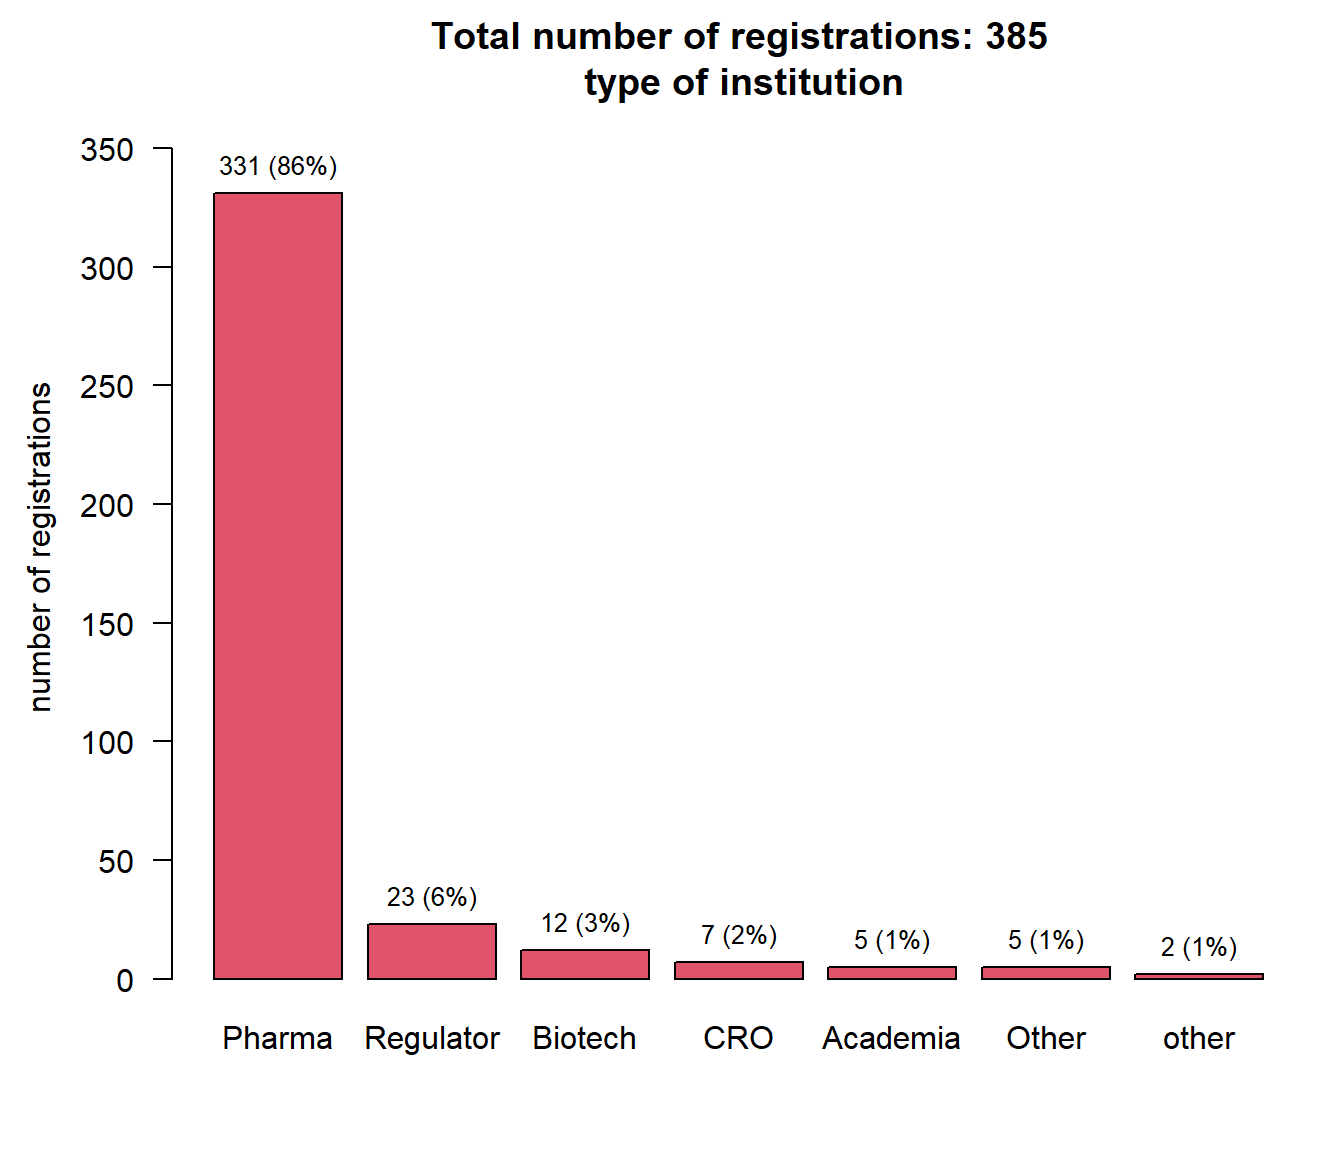
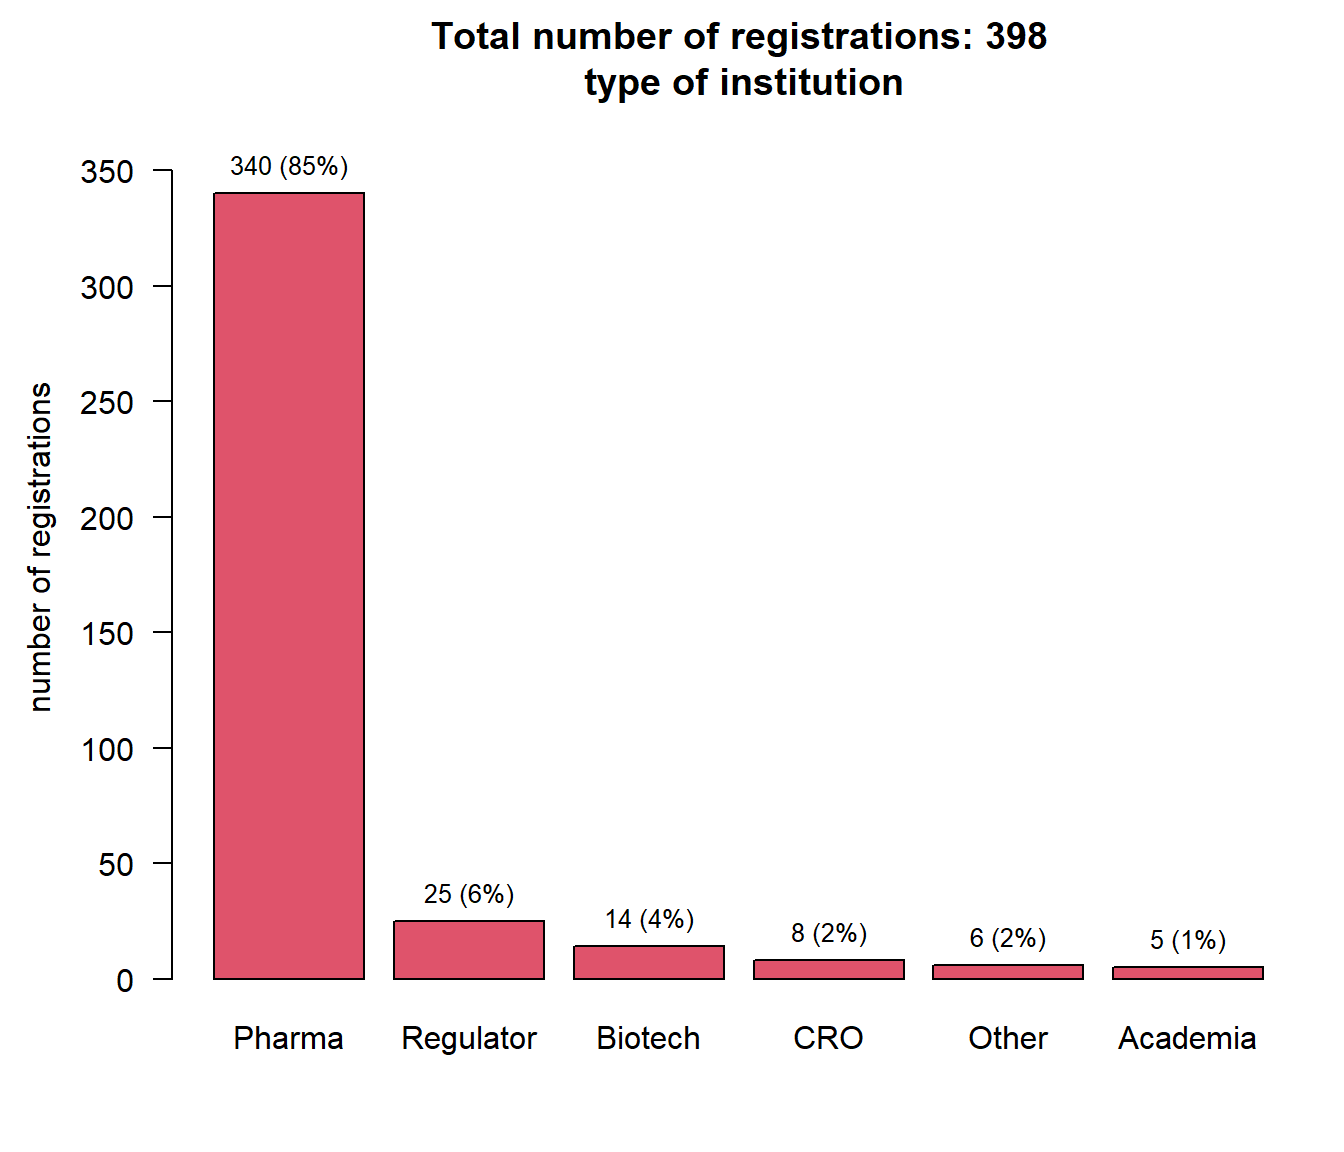
update

diff --git a/docs/data/2024/analysis2024.html b/docs/data/2024/analysis2024.html
@@ -7,7 +7,7 @@
 <meta name="viewport" content="width=device-width, initial-scale=1.0, user-scalable=yes">
 
 <meta name="author" content="Kaspar Rufibach">
-<meta name="dcterms.date" content="2024-07-26">
+<meta name="dcterms.date" content="2024-07-30">
 
 <title>EFSPI regulatory statistics workshop - EFSPI regulatory statistics workshop 2024: analysis of registrations</title>
 <style>
@@ -204,7 +204,7 @@ ul.task-list li input[type="checkbox"] {
     <div>
     <div class="quarto-title-meta-heading">Published</div>
     <div class="quarto-title-meta-contents">
-      <p class="date">July 26, 2024</p>
+      <p class="date">July 30, 2024</p>
     </div>
   </div>
   
@@ -218,7 +218,7 @@ ul.task-list li input[type="checkbox"] {
 
 <section id="data-status" class="level1">
 <h1>Data status</h1>
-<p>Data as of 2024-07-26 at 21:31:58.</p>
+<p>Data as of 2024-07-30 at 07:15:30.</p>
 </section>
 <section id="registrations-by-type-of-institution" class="level1">
 <h1>Registrations by type of institution</h1>
@@ -330,9 +330,9 @@ ul.task-list li input[type="checkbox"] {
 <tr class="header">
 <th style="text-align: left;"></th>
 <th style="text-align: center;">Boehringer Ingelheim (N=13)</th>
-<th style="text-align: center;">Novartis (N=162)</th>
-<th style="text-align: center;">Roche (N=91)</th>
-<th style="text-align: center;">Total (N=266)</th>
+<th style="text-align: center;">Novartis (N=166)</th>
+<th style="text-align: center;">Roche (N=92)</th>
+<th style="text-align: center;">Total (N=271)</th>
 </tr>
 </thead>
 <tbody>
@@ -346,16 +346,16 @@ ul.task-list li input[type="checkbox"] {
 <tr class="even">
 <td style="text-align: left;">&nbsp;&nbsp;&nbsp;Face-to-face (280 Euro)</td>
 <td style="text-align: center;">2 (15.4%)</td>
-<td style="text-align: center;">69 (42.6%)</td>
-<td style="text-align: center;">60 (65.9%)</td>
-<td style="text-align: center;">131 (49.2%)</td>
+<td style="text-align: center;">69 (41.6%)</td>
+<td style="text-align: center;">61 (66.3%)</td>
+<td style="text-align: center;">132 (48.7%)</td>
 </tr>
 <tr class="odd">
 <td style="text-align: left;">&nbsp;&nbsp;&nbsp;Virtual (70 Euro)</td>
 <td style="text-align: center;">11 (84.6%)</td>
-<td style="text-align: center;">93 (57.4%)</td>
-<td style="text-align: center;">31 (34.1%)</td>
-<td style="text-align: center;">135 (50.8%)</td>
+<td style="text-align: center;">97 (58.4%)</td>
+<td style="text-align: center;">31 (33.7%)</td>
+<td style="text-align: center;">139 (51.3%)</td>
 </tr>
 </tbody>
 </table>
@@ -371,8 +371,8 @@ ul.task-list li input[type="checkbox"] {
 <thead>
 <tr class="header">
 <th style="text-align: left;"></th>
-<th style="text-align: center;">Novo Nordisk (N=37)</th>
-<th style="text-align: center;">Total (N=37)</th>
+<th style="text-align: center;">Novo Nordisk (N=40)</th>
+<th style="text-align: center;">Total (N=40)</th>
 </tr>
 </thead>
 <tbody>
@@ -383,13 +383,13 @@ ul.task-list li input[type="checkbox"] {
 </tr>
 <tr class="even">
 <td style="text-align: left;">&nbsp;&nbsp;&nbsp;Face-to-face (280 Euro)</td>
-<td style="text-align: center;">3 (8.1%)</td>
-<td style="text-align: center;">3 (8.1%)</td>
+<td style="text-align: center;">3 (7.5%)</td>
+<td style="text-align: center;">3 (7.5%)</td>
 </tr>
 <tr class="odd">
 <td style="text-align: left;">&nbsp;&nbsp;&nbsp;Virtual (70 Euro)</td>
-<td style="text-align: center;">34 (91.9%)</td>
-<td style="text-align: center;">34 (91.9%)</td>
+<td style="text-align: center;">37 (92.5%)</td>
+<td style="text-align: center;">37 (92.5%)</td>
 </tr>
 </tbody>
 </table>

diff --git a/docs/data/2023/feedback2023.html b/docs/data/2023/feedback2023.html
@@ -7,7 +7,7 @@
 <meta name="viewport" content="width=device-width, initial-scale=1.0, user-scalable=yes">
 
 <meta name="author" content="Kaspar Rufibach">
-<meta name="dcterms.date" content="2024-07-26">
+<meta name="dcterms.date" content="2024-07-30">
 
 <title>EFSPI regulatory statistics workshop - EFSPI regulatory statistics workshop 2023: feedback from participants and contributors</title>
 <style>
@@ -211,7 +211,7 @@ ul.task-list li input[type="checkbox"] {
     <div>
     <div class="quarto-title-meta-heading">Published</div>
     <div class="quarto-title-meta-contents">
-      <p class="date">July 26, 2024</p>
+      <p class="date">July 30, 2024</p>
     </div>
   </div>
   
@@ -225,7 +225,7 @@ ul.task-list li input[type="checkbox"] {
 
 <section id="data-status" class="level1">
 <h1>Data status</h1>
-<p>Data as of 2024-07-26 at 21:31:42.</p>
+<p>Data as of 2024-07-30 at 07:15:12.</p>
 </section>
 <section id="feedback-from-participants" class="level1">
 <h1>Feedback from participants</h1>

diff --git a/docs/feedback.html b/docs/feedback.html
@@ -7,7 +7,7 @@
 <meta name="viewport" content="width=device-width, initial-scale=1.0, user-scalable=yes">
 
 <meta name="author" content="Kaspar Rufibach">
-<meta name="dcterms.date" content="2024-07-26">
+<meta name="dcterms.date" content="2024-07-30">
 
 <title>EFSPI regulatory statistics workshop - EFSPI regulatory statistics workshop: feedback from previous years</title>
 <style>
@@ -194,7 +194,7 @@ ul.task-list li input[type="checkbox"] {
     <div>
     <div class="quarto-title-meta-heading">Published</div>
     <div class="quarto-title-meta-contents">
-      <p class="date">July 26, 2024</p>
+      <p class="date">July 30, 2024</p>
     </div>
   </div>
   

diff --git a/docs/past_scicom.html b/docs/past_scicom.html
@@ -6,7 +6,7 @@
 
 <meta name="viewport" content="width=device-width, initial-scale=1.0, user-scalable=yes">
 
-<meta name="dcterms.date" content="2024-07-26">
+<meta name="dcterms.date" content="2024-07-30">
 
 <title>EFSPI regulatory statistics workshop - Past workshops: analysis of registrations and feedback (for restricted audience only)</title>
 <style>
@@ -186,7 +186,7 @@ ul.task-list li input[type="checkbox"] {
     <div>
     <div class="quarto-title-meta-heading">Published</div>
     <div class="quarto-title-meta-contents">
-      <p class="date">July 26, 2024</p>
+      <p class="date">July 30, 2024</p>
     </div>
   </div>
   
